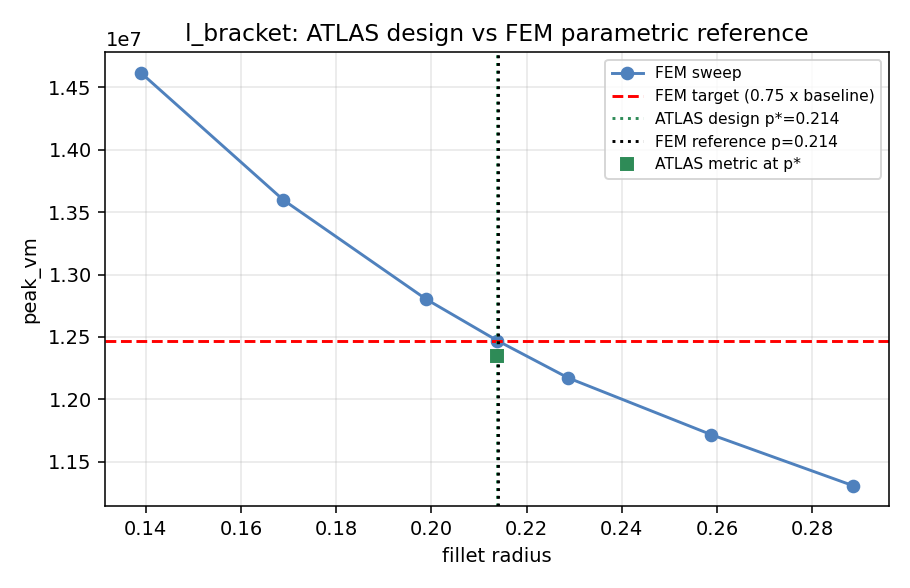
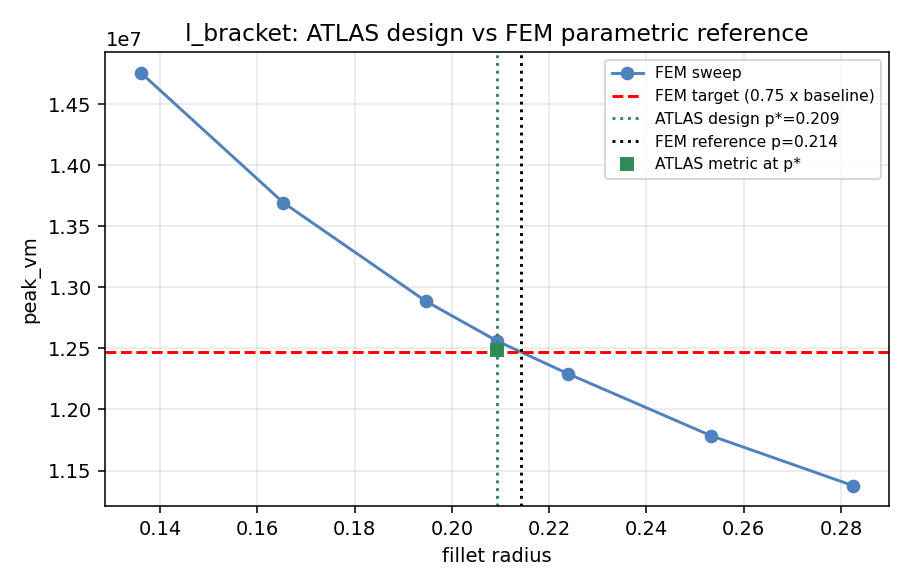
FEM-check the current single-network L-bracket design and record browser tests
- The single-network L-bracket inverse design had been re-run after its FEM
  check. The check is now redone for the current design (r = 0.2093):
  peak stress +0.74 % from the target.
- ALL_RESULTS.md gets that check, an independent fem_live cross-check of the
  ATLAS-XPINN cantilever and plate designs, a full-budget custom run made
  from the browser (steel insert with a titanium insert) and the 20 % run
  length result.

diff --git a/results/ALL_RESULTS.md b/results/ALL_RESULTS.md
@@ -272,7 +272,7 @@ recomputed from the FEM baseline, and the FEM optimum is found by interpolating 
 | **ATLAS energy (single)** | | | | | | |
 | Cantilever | beam height | compliance = 0.6 × baseline | H 1.000 → 1.19295 m | −0.005 % | −0.033 % | +0.002 % (FEM 1.19294) |
 | Plate with hole | hole radius | compliance = 1.10 × baseline | r 0.300 → 0.48155 m | −0.007 % | +0.002 % | −0.020 % (FEM 0.48165) |
-| L-bracket | fillet radius | peak von Mises = 0.75 × baseline | r 0.100 → 0.20931 m (see note) | see note | see note | see note |
+| L-bracket | fillet radius | peak von Mises = 0.75 × baseline | r 0.100 → 0.20931 m; peak vM 16.62 → 12.56 MPa (−24.4 %) | +0.74 % | −0.56 % | −2.33 % (FEM 0.21430) |
 
 **Design loops:**
 
@@ -285,11 +285,15 @@ recomputed from the FEM baseline, and the FEM optimum is found by interpolating 
 **L-bracket, ATLAS-XPINN:** the fillet radius is 11 % off the FEM optimum because the peak stress is nearly flat in
 the fillet radius near the design. The metric itself lands within 3.7 % of the target.
 
-**L-bracket, ATLAS energy (single network):** the design was re-run after its FEM check.
+**Independent cross-check (2026-09-30):** the console's separate FEM code (`fem/fem_live.py`) was run at the
+ATLAS-XPINN cantilever and plate designs. It uses a different mesh and code path from the stored checks.
 
-- **Stored check:** it is for an earlier design at r = 0.21383. There the result was +0.019 % from the target, −0.99 % ATLAS vs FEM, and −0.05 % from the FEM optimum 0.21395.
-- **Current design:** r = 0.20931 has not been FEM-checked.
-- **Estimate:** interpolating that check's own FEM sweep gives about 12.57 MPa at r = 0.20931, about +0.8 % from the 12.47 MPa target.
+| benchmark | compliance, baseline → design [N·m] | ratio | vs target | stored check |
+|---|---|---|---|---|
+| Cantilever | 1272.37 → 763.67 | 0.6002 | +0.032 % | +0.032 % |
+| Plate with hole | 20.125 → 22.127 | 1.0995 | −0.046 % | −0.047 % |
+
+The L-bracket has no such cross-check, because `fem_live.py` does not model the fillet.
 
 ---
 
@@ -451,7 +455,7 @@ The von Mises gain scales with how much of the stress error sits at the interfac
 
 Start it with `cd webapp/backend && python app.py`, then open http://localhost:8000/.
 
-- **Solver:** ATLAS-XPINN only. It runs at the study settings: seed 42, the chosen Adam epochs (default 2000), then 2000 L-BFGS.
+- **Solver:** ATLAS-XPINN only, seed 42. The default run length is the study's (2000 Adam + 2000 L-BFGS); the Simple view's slider also offers 20, 40, 60 and 80 % of it, and the Expert view takes exact step counts.
 - **Benchmarks:** all six.
 - **At the study settings:** a run is scored against the stored FEM reference.
 - **At any other settings:** the server first solves a FEniCS reference for exactly those inputs (`fem/fem_live.py`). It then reports:
@@ -489,13 +493,20 @@ Start it with `cd webapp/backend && python app.py`, then open http://localhost:8
   - cantilever with L = 6, H = 1.5
   - L-bracket
   - filled slot
-- Those checks used short budgets. A full-budget custom run and a full live inverse run have not yet been done from the browser.
+- Those checks used short budgets.
+- **Full run from the browser (2026-10-02):** steel insert with a titanium insert picked from the material list (E 115 GPa, ν 0.34), full run length, submitted and read entirely through the page. A fresh FEM reference was solved for these settings (21,219 cells).
+
+| bending error | stress error | band, insert / plate side | compliance vs FEM | training time |
+|---|---|---|---|---|
+| 0.040 % | 0.23 % | 1.20 % / 1.10 % | −0.00 % | 8 min 21 s |
+
+- **Shortest run length (20 %, 400 + 400), plate with a hole:** 5.9 % bending and 10.0 % stress error in 96 s, just over both goals. The full run gives 0.75 % and 3.4 %.
+- **Inverse design:** a live run from the browser has not been done.
 
 ---
 
 ## 6. Caveats and data-quality notes
 
-- **L-bracket, single-network inverse design:** the stored FEM check is for an earlier design radius ([section 3.6](#36-inverse-design-fem-checked)).
 - **L-bracket reference compliance:** the stored FEM value (96.52 N·m) comes from sampling the solution at the nodes. The converged value is 96.97 N·m. ATLAS's +0.4 % "error" is therefore about −0.05 % against the converged value. No conclusion changes.
 - **Plate-with-hole von Mises reference:** the FEM von Mises is an L2 projection onto P2, which oscillates on the hole edge. Consecutive nodes read 2.2, 0.5, 5.6 and 3.2 MPa, while Kirsch (1898) gives about 3.0. Part of the ~2.6 % plate stress error is reference noise.
 - **Plate-with-hole exclusion point:** the plate's singular-point exclusion sits at (r, 0), which is the minimum-stress point. It was left unchanged so the metric stays comparable.
@@ -598,7 +609,7 @@ python scripts/multi_material/make_report.py --bench steel_insert
 
 ## 9. References
 
-Entries follow APA 7 style, as in the proposal (`docs/Atlas.md`). Hu et al. (2022) is also in the proposal's list.
+Entries follow APA 7 style, as in the proposal. Hu et al. (2022) is also in the proposal's list.
 
 ### 9.1 Literature searched for this study
 
